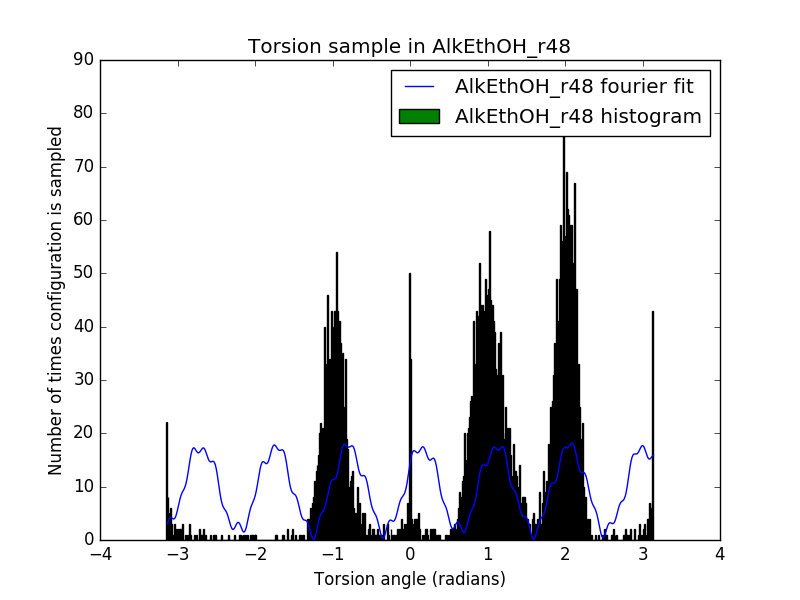
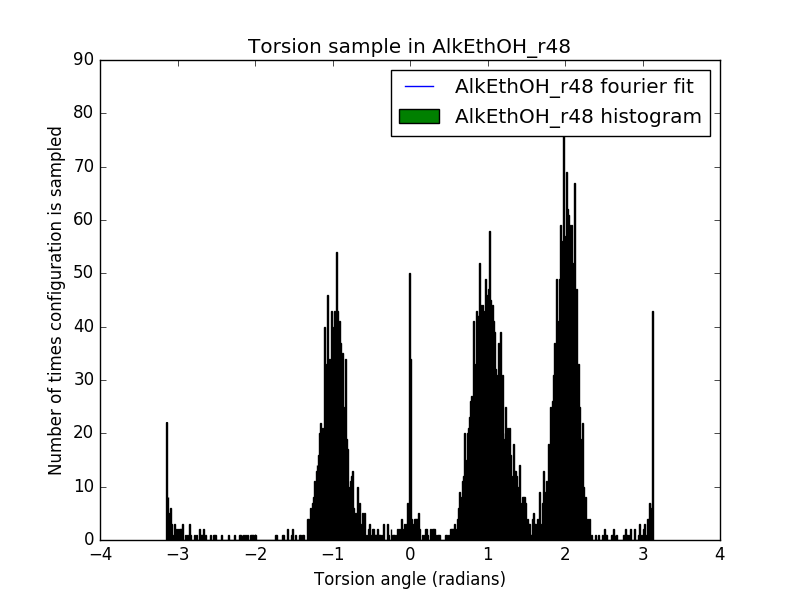
Add phase as a parameter

diff --git a/single-molecule-property-generation/least_squares_fit_example.py b/single-molecule-property-generation/least_squares_fit_example.py
@@ -328,9 +328,9 @@ def readtraj(ncfiles):
 #------------------------------------------------------------------
 phase = np.pi/3.
 def fourier(x, *a):
-    ret =  a[0] * (np.sin(2*np.pi*x / a[1] + phase))**2 + \
-           a[2] * (np.sin(2*np.pi*x / a[3] + phase))**2 + \
-           a[4] * (np.sin(2*np.pi*x / a[5] + phase))**2 #+ \
+    ret =  a[0] * (np.sin(2*np.pi*x / a[1] + a[2]))**2 + \
+           a[3] * (np.sin(2*np.pi*x / a[4] + a[5]))**2 + \
+           a[6] * (np.sin(2*np.pi*x / a[7] + a[8]))**2 #+ \
            #a[6] * (np.sin(2*np.pi*x / a[7] + phase))**2 + \
            #a[8] * (np.sin(2*np.pi*x / a[9] + phase))**2 + \
            #a[10] * (np.sin(2*np.pi*x / a[11] + phase))**2
@@ -512,7 +512,7 @@ plt.figure()
 #	if j==0.:
 #           n1[i]=5.
 
-popt, pcov = sci.curve_fit(fourier, bins1[1:], n1, [1.0,1.0]*3, maxfev=100000)
+popt, pcov = sci.curve_fit(fourier, bins1[1:], n1, [1.0,0.0,1.0]*3, maxfev=100000)
 plt.plot(bins1[1:],fourier(bins1[1:],*popt),label='AlkEthOH_r48 fourier fit')
 plt.ylabel('Number of times configuration is sampled')
 plt.xlabel('Torsion angle (radians)')
